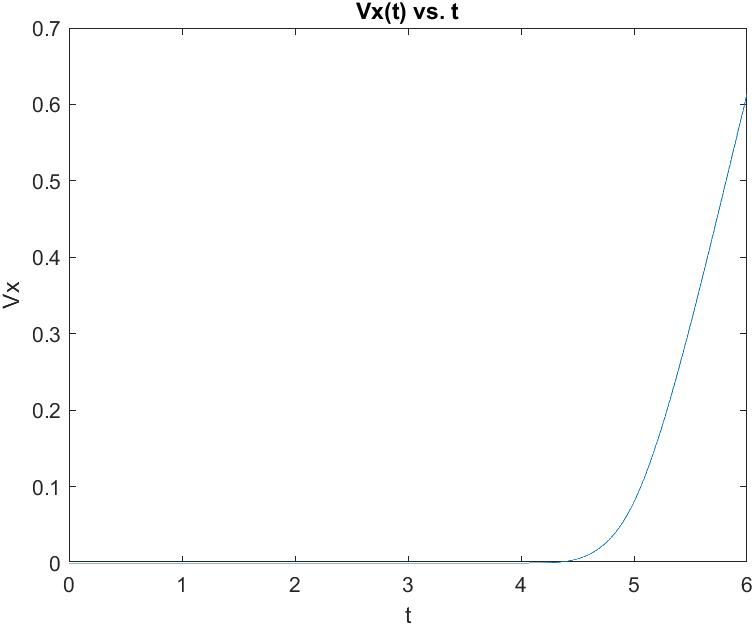
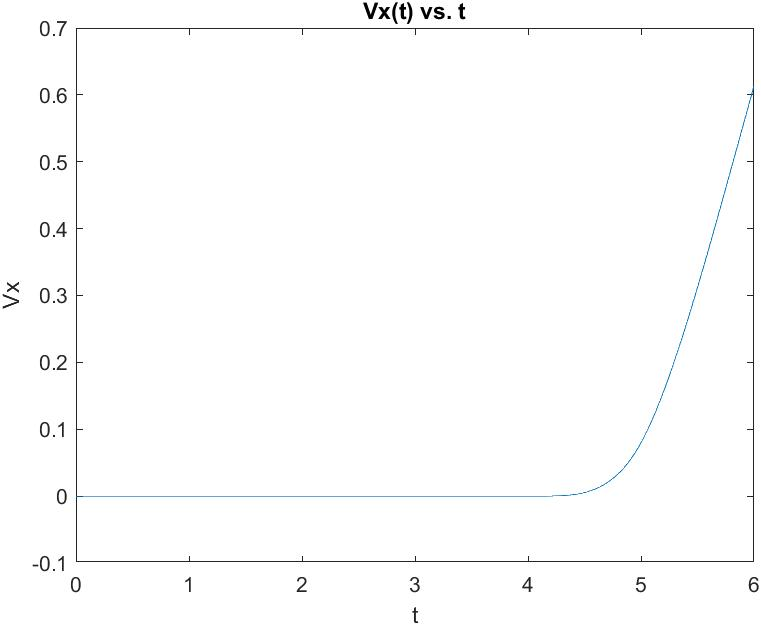
shit is clean rn, prolly can be better

diff --git a/AERSP304_Proj2.m b/AERSP304_Proj2.m
@@ -133,81 +133,64 @@ function    rDot = Q1fun(t,d,I)
     theta2dot = 0 ;
     psi1dot = 0 ;
     psi2dot = 0 ;
-    
+
     % part A function
-    z1dot = z2;
-   
-    if t < 1 
-        T1 = k*(OmegaH + 70 * sin(0.5 * pi * t))^2 ;
-        T2 = k*(OmegaH + 70 * sin(0.5 * pi * t))^2 ;
-        T3 = k*(OmegaH + 70 * sin(0.5 * pi * t))^2 ;
-        T4 = k*(OmegaH + 70 * sin(0.5 * pi * t))^2 ;
-        z2dot = (T1+T2+T3+T4)/m - g ;
-    elseif t >= 1 && t <= 2
-        T1 = k*(OmegaH - 77 * sin(0.5 * pi * t))^2 ;
-        T2 = k*(OmegaH - 77 * sin(0.5 * pi * t))^2 ;
-        T3 = k*(OmegaH - 77 * sin(0.5 * pi * t))^2 ;
-        T4 = k*(OmegaH - 77 * sin(0.5 * pi * t))^2 ;
-        z2dot = (T1+T2+T3+T4)/m - g ;
-    end
-    
-    % part B function
-    T1 = k*OmegaH^2 ;
-    T3 = k*OmegaH^2 ;
-
-    phi1dot = phi2 ;
-    y1dot = y2 ;
-    z1dot = z2 ;
-
-    if t > 2 && t < 3
-        T2 = k*(OmegaH^2 - 70^2 * sin(0.5*pi*(t-2))) ;
-        T4 = k*(OmegaH^2 + 70^2 * sin(0.5*pi*(t-2))) ;
-        L = l*(-T2+T4) ;
-        phi2dot = L/I(1,1) ;
-        y2dot = ((T1+T2+T3+T4)/m) * -sin(phi1) ;
-        z2dot = ((T1+T2+T3+T4)/m) * cos(phi1) - g ;
-    elseif t >=3 && t < 4
-        T2 = k*(OmegaH^2 + 70^2 * sin(0.5*pi*(t-2))) ;
-        T4 = k*(OmegaH^2 - 70^2 * sin(0.5*pi*(t-2))) ;
-        L = l*(-T2+T4) ;
-        phi2dot = L/I(1,1) ;
-        y2dot = ((T1+T2+T3+T4)/m) * -sin(phi1) ;
-        z2dot = ((T1+T2+T3+T4)/m) * cos(phi1) - g ;
-    end
-
-    % part C function
-    T2 = k*OmegaH^2 ;
-    T4 = k*OmegaH^2 ;
-
     phi1dot = phi2 ;
     theta1dot = theta2 ;
     psi1dot = psi2 ;
     x1dot = x2 ;
     y1dot = y2 ;
     z1dot = z2 ;
-
-    if t >= 4 && t < 5
-        T1 = k*(OmegaH^2 - 70^2 * sin(0.5*pi*(t-4))) ;
-        T3 = k*(OmegaH^2 + 70^2 * sin(0.5*pi*(t-4))) ;
-        M = l*(-T1+T3) ;
-        N = (b/k)*(T1-T2+T3-T4);
-        theta2dot = M/I(2,2) ;
-        psi2dot = N/I(3,3) ;
-        x2dot = ((T1+T2+T3+T4)/m) * (cos(psi1)*sin(theta1)*cos(phi1)+sin(psi1)*psi(phi1));
-        y2dot = ((T1+T2+T3+T4)/m) * (sin(phi1)*sin(theta1)*cos(phi1)-cos(psi1)*sin(phi1)) ;
-        z2dot = ((T1+T2+T3+T4)/m) * (cos(phi1)*cos(theta1)) - g ;
-    elseif t >=5 && t <= 6
-        T1 = k*(OmegaH^2 + 70^2 * sin(0.5*pi*(t-4))) ;
-        T3 = k*(OmegaH^2 - 70^2 * sin(0.5*pi*(t-4))) ;
-        M = l*(-T1+T3) ;
-        N = (b/k)*(T1-T2+T3-T4);
-        theta2dot = M/I(2,2) ;
-        psi2dot = N/I(3,3) ;
-        x2dot = ((T1+T2+T3+T4)/m) * (cos(psi1)*sin(theta1)*cos(phi1)+sin(psi1)*psi(phi1));
-        y2dot = ((T1+T2+T3+T4)/m) * (sin(phi1)*sin(theta1)*cos(phi1)-cos(psi1)*sin(phi1)) ;
-        z2dot = ((T1+T2+T3+T4)/m) * (cos(phi1)*cos(theta1)) - g ;
+   
+    if t <= 2
+        if t < 1
+            T1 = k*(OmegaH + 70 * sin(0.5 * pi * t))^2 ;
+            T2 = k*(OmegaH + 70 * sin(0.5 * pi * t))^2 ;
+            T3 = k*(OmegaH + 70 * sin(0.5 * pi * t))^2 ;
+            T4 = k*(OmegaH + 70 * sin(0.5 * pi * t))^2 ;
+        elseif t >= 1 && t <= 2
+            T1 = k*(OmegaH - 77 * sin(0.5 * pi * t))^2 ;
+            T2 = k*(OmegaH - 77 * sin(0.5 * pi * t))^2 ;
+            T3 = k*(OmegaH - 77 * sin(0.5 * pi * t))^2 ;
+            T4 = k*(OmegaH - 77 * sin(0.5 * pi * t))^2 ;
+        end
+    
+    % part B function
+  
+    elseif t > 2 && t < 4
+        T1 = k*OmegaH^2 ;
+        T3 = k*OmegaH^2 ;
+        if t > 2 && t < 3
+            T2 = k*(OmegaH^2 - 70^2 * sin(0.5*pi*(t-2))) ;
+            T4 = k*(OmegaH^2 + 70^2 * sin(0.5*pi*(t-2))) ;
+        elseif t >= 3 && t < 4
+            T2 = k*(OmegaH^2 + 70^2 * sin(0.5*pi*(t-2))) ;
+            T4 = k*(OmegaH^2 - 70^2 * sin(0.5*pi*(t-2))) ;
+        end
+   
+    % part C function
+     
+    elseif t >= 4 && t <= 6
+        T2 = k*OmegaH^2 ;
+        T4 = k*OmegaH^2 ;
+        if t >=4 && t < 5
+            T1 = k*(OmegaH^2 - 70^2 * sin(0.5*pi*(t-4))) ;
+            T3 = k*(OmegaH^2 + 70^2 * sin(0.5*pi*(t-4))) ;
+        elseif t >=5 && t <= 6
+            T1 = k*(OmegaH^2 + 70^2 * sin(0.5*pi*(t-4))) ;
+            T3 = k*(OmegaH^2 - 70^2 * sin(0.5*pi*(t-4))) ;
+        end
     end
-
+    
+    L = l*(-T2+T4) ;
+    M = l*(-T1+T3) ;
+    N = (b/k)*(T1-T2+T3-T4) ;
+    phi2dot = L/I(1,1) ;
+    theta2dot = M/I(2,2) ;
+    psi2dot = N/I(3,3) ;
+    x2dot = ((T1+T2+T3+T4)/m) * (cos(psi1)*sin(theta1)*cos(phi1)+sin(psi1)*sin(phi1)) ;
+    y2dot = ((T1+T2+T3+T4)/m) * (sin(phi1)*sin(theta1)*cos(phi1)-cos(psi1)*sin(phi1)) ;
+    z2dot = ((T1+T2+T3+T4)/m) * (cos(phi1)*cos(theta1)) - g ;
 
     % return
     rDot = [x1dot; x2dot; y1dot; y2dot; z1dot; z2dot; phi1dot; phi2dot; theta1dot; theta2dot; psi1dot; psi2dot];
